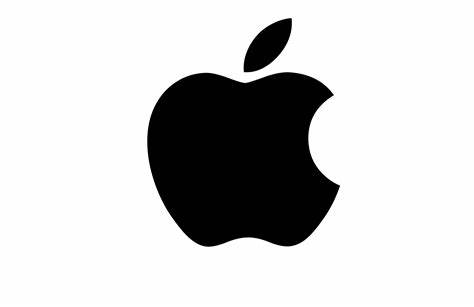
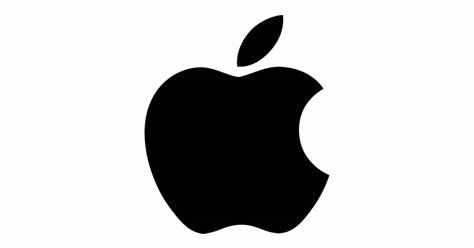
Update

Changed region(s): [[0.2954, 0.3669, 0.7384, 0.9597], [0.3249, 0.0565, 0.7089, 0.4234]]

diff --git a/index.html b/index.html
@@ -30,11 +30,11 @@
  </head>
  <section>
   <header> </header>
-  <blockquote cite="https://th.bing.com/th/id/OIP.tPq9unzwIPvWPnYgmeYwtgHaEz?pid=ImgDet&rs=1">
+  <blockquote cite="https://th.bing.com/th/id/OIP.hkLW_9z2lHD0CP2fclCDuAHaD4?pid=ImgDet&rs=1">
       <!-- Date accessed 20220709 -->
-      <!-- Width: 474, Height: 307-->
+      <!-- Width: 474, Height: 248-->
   </blockquote>
-  <img src="../Images/OIP (1).JPG" alt="https://th.bing.com/th/id/OIP.tPq9unzwIPvWPnYgmeYwtgHaEz?pid=ImgDet&rs=1" title="Apple" style="width:50%;height:auto;">
+  <img src="../Images/OIP (1).jpg" alt="https://th.bing.com/th/id/OIP.hkLW_9z2lHD0CP2fclCDuAHaD4?pid=ImgDet&rs=1" title="Apple" style="width:50%;height:auto;">
 </section>
 
  <body>
